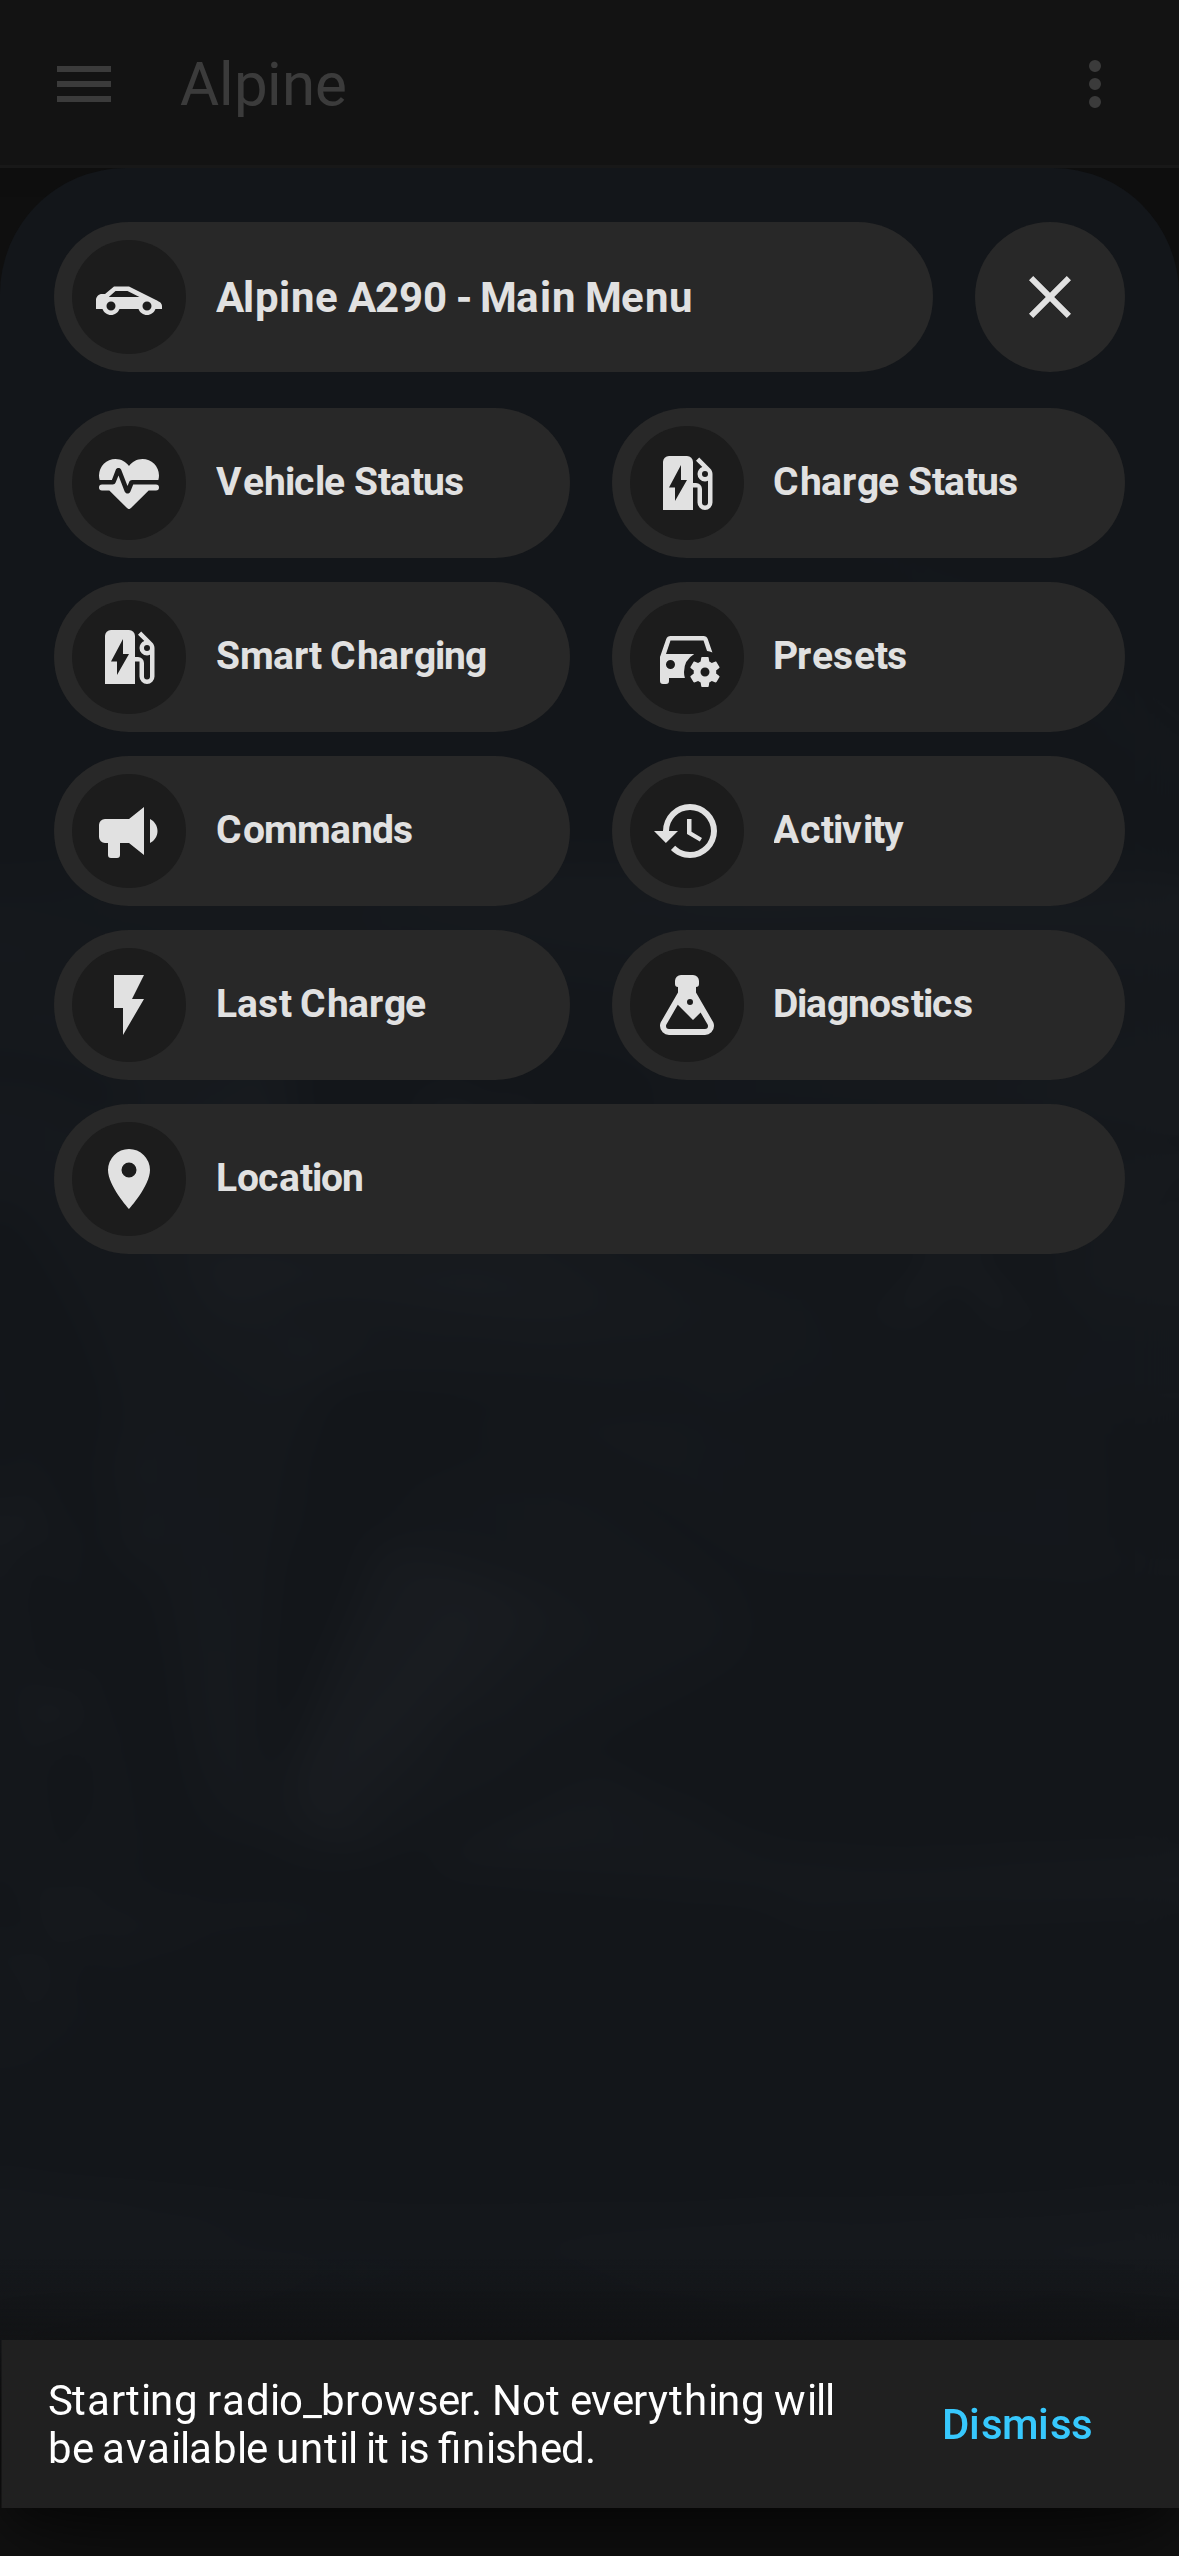
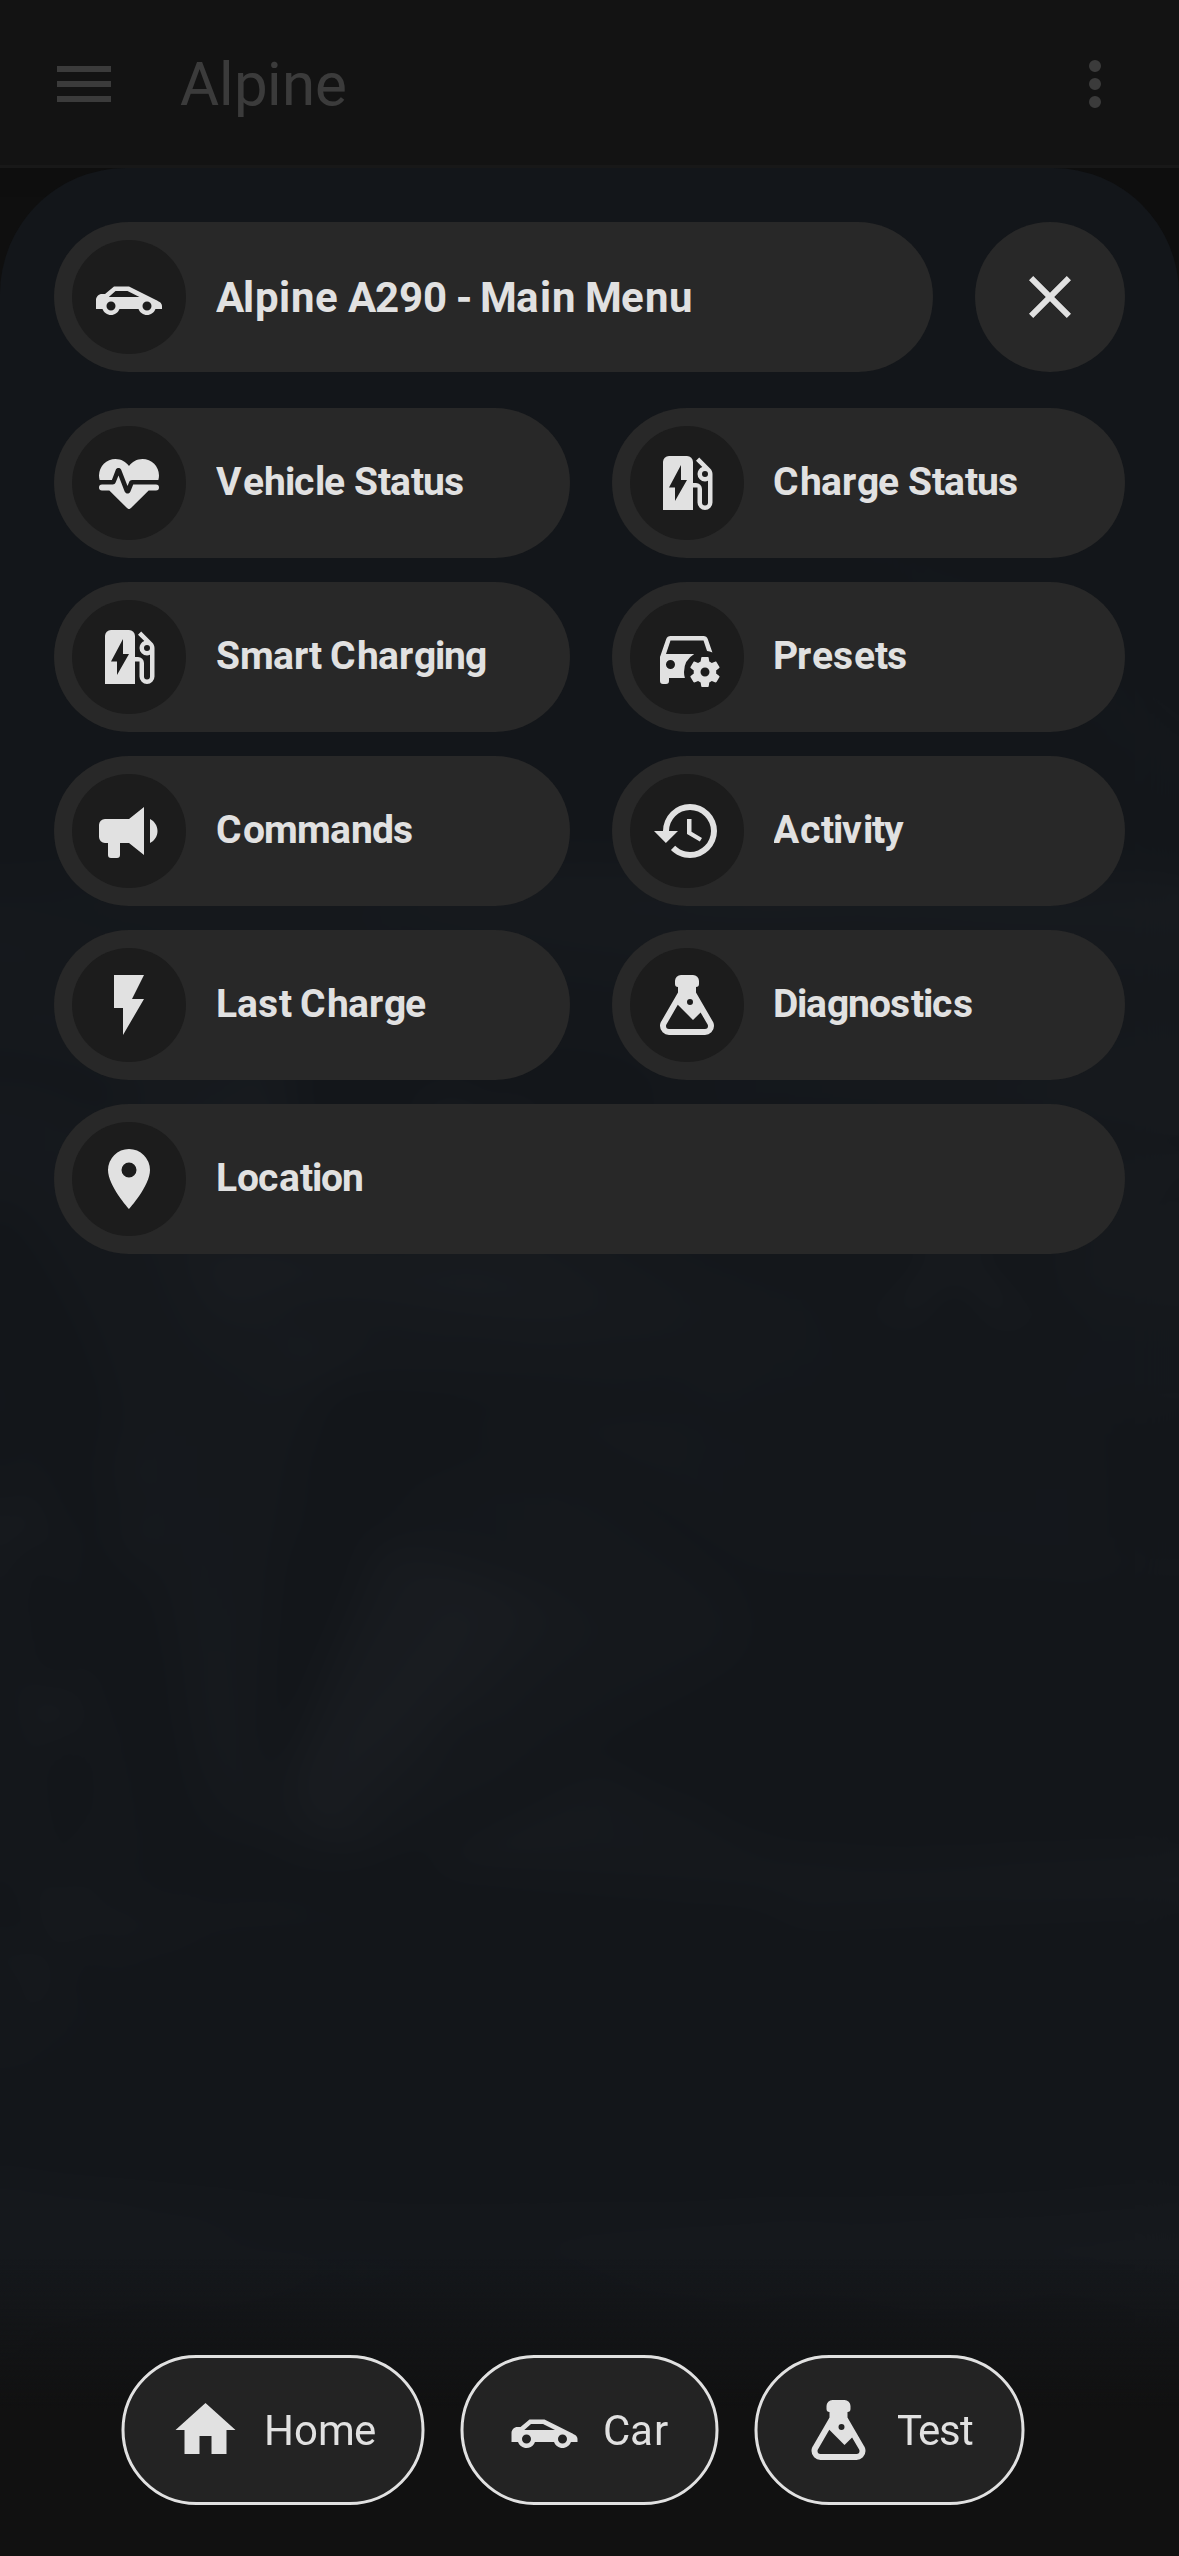
deploy: 15s per-receive timeout on _WS._cmd so a wedged socket can't hang the deploy (v1.16.1) (#40)
* deploy: add 15s per-receive timeout to _WS._cmd so a wedged socket can't hang the deploy (v1.16.1)

* chore: refresh dashboard screenshots [refresh-shots]

Changed region(s): [[0.0305, 0.9272, 0.7328, 0.989], [0.7634, 0.9272, 0.916, 0.9581]]

diff --git a/alpine_a290/tests/test_deploy.py b/alpine_a290/tests/test_deploy.py
@@ -426,6 +426,35 @@ def test_ws_raises_on_failed_result():
     asyncio.run(scenario())
 
 
+def test_ws_cmd_times_out_on_wedged_socket(monkeypatch):
+    """A socket that never delivers the matching result must not hang the deploy: _cmd wraps
+    each receive in asyncio.wait_for, so a wedged frame raises TimeoutError instead of blocking
+    forever. The per-receive timeout is shortened here so the test is fast and fails cleanly
+    (rather than hanging) if the guard is ever removed."""
+    import pytest
+
+    class WS:
+        async def send_json(self, payload):
+            pass
+
+        async def receive_json(self):
+            # Delivers a valid result, but only after longer than the (shortened) timeout —
+            # so with the guard the wait_for fires first; without it, _cmd would return.
+            await asyncio.sleep(0.5)
+            return {"id": 1, "type": "result", "success": True, "result": None}
+
+    real_wait_for = asyncio.wait_for
+    monkeypatch.setattr(deploy.asyncio, "wait_for",
+                        lambda aw, timeout: real_wait_for(aw, timeout=0.05))
+
+    async def scenario():
+        api = deploy._WS(None, WS(), "token")
+        with pytest.raises((asyncio.TimeoutError, TimeoutError)):
+            await api.dashboards()
+
+    asyncio.run(scenario())
+
+
 def test_ws_auth_failure_raises():
     import pytest
 

diff --git a/alpine_a290/app/deploy.py b/alpine_a290/app/deploy.py
@@ -4,6 +4,7 @@ Reads the bundled dashboard YAML, rewrites its /local image refs to jsDelivr CDN
 (served from this repo), registers the Zen Dots font, and creates + pushes the dashboard
 via HA's WebSocket API. Create-once (left alone unless redeploy_dashboard); never fatal.
 """
+import asyncio
 import logging
 import os
 import re
@@ -360,7 +361,8 @@ class _WS:
         payload["id"] = self._id
         await self._ws.send_json(payload)
         while True:
-            msg = await self._ws.receive_json()
+            # Per-receive timeout so an unexpected event/close frame can't hang the deploy.
+            msg = await asyncio.wait_for(self._ws.receive_json(), timeout=15)
             if msg.get("id") == self._id and msg.get("type") == "result":
                 if not msg.get("success", False):
                     raise RuntimeError(f"{payload['type']} failed: {msg.get('error')}")

diff --git a/alpine_a290/CHANGELOG.md b/alpine_a290/CHANGELOG.md
@@ -1,5 +1,11 @@
 # Changelog
 
+## 1.16.1
+
+- **Dashboard deploy can no longer hang indefinitely.** The HA WebSocket client now wraps each
+  receive in a 15s per-receive timeout, so an unexpected event/close frame raises a timeout
+  instead of blocking the deploy forever. (Brings the A290 in line with the R5 add-on.)
+
 ## 1.16.0
 
 - **Base image moved off end-of-life Alpine 3.19 to current Alpine 3.24** (HA base image